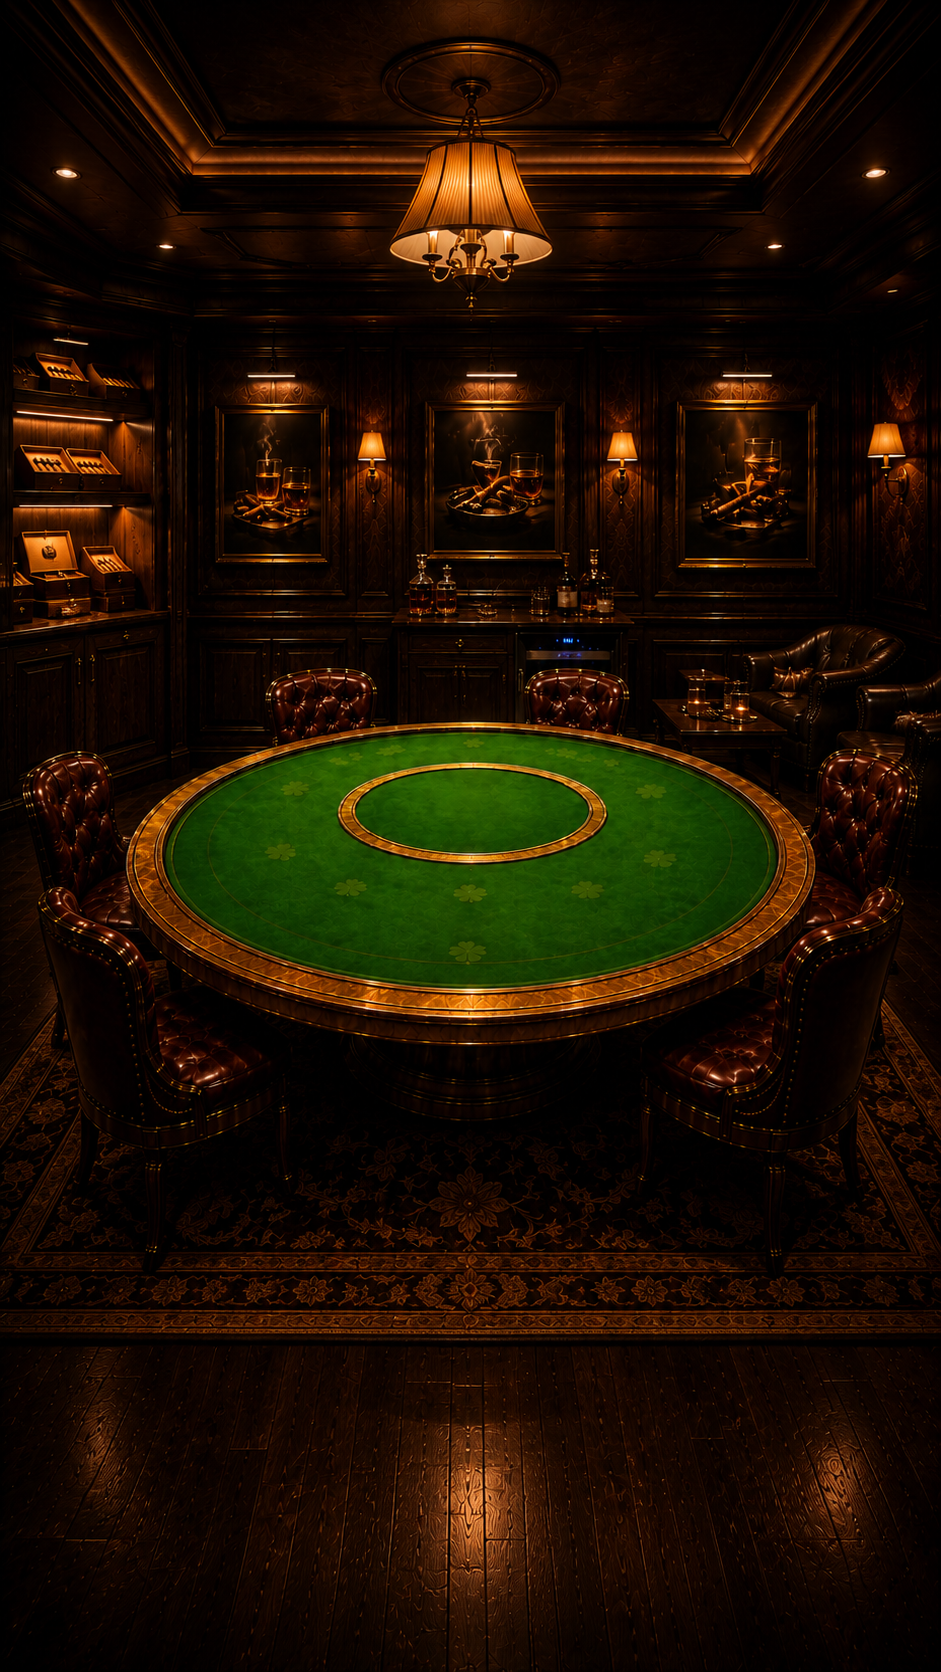
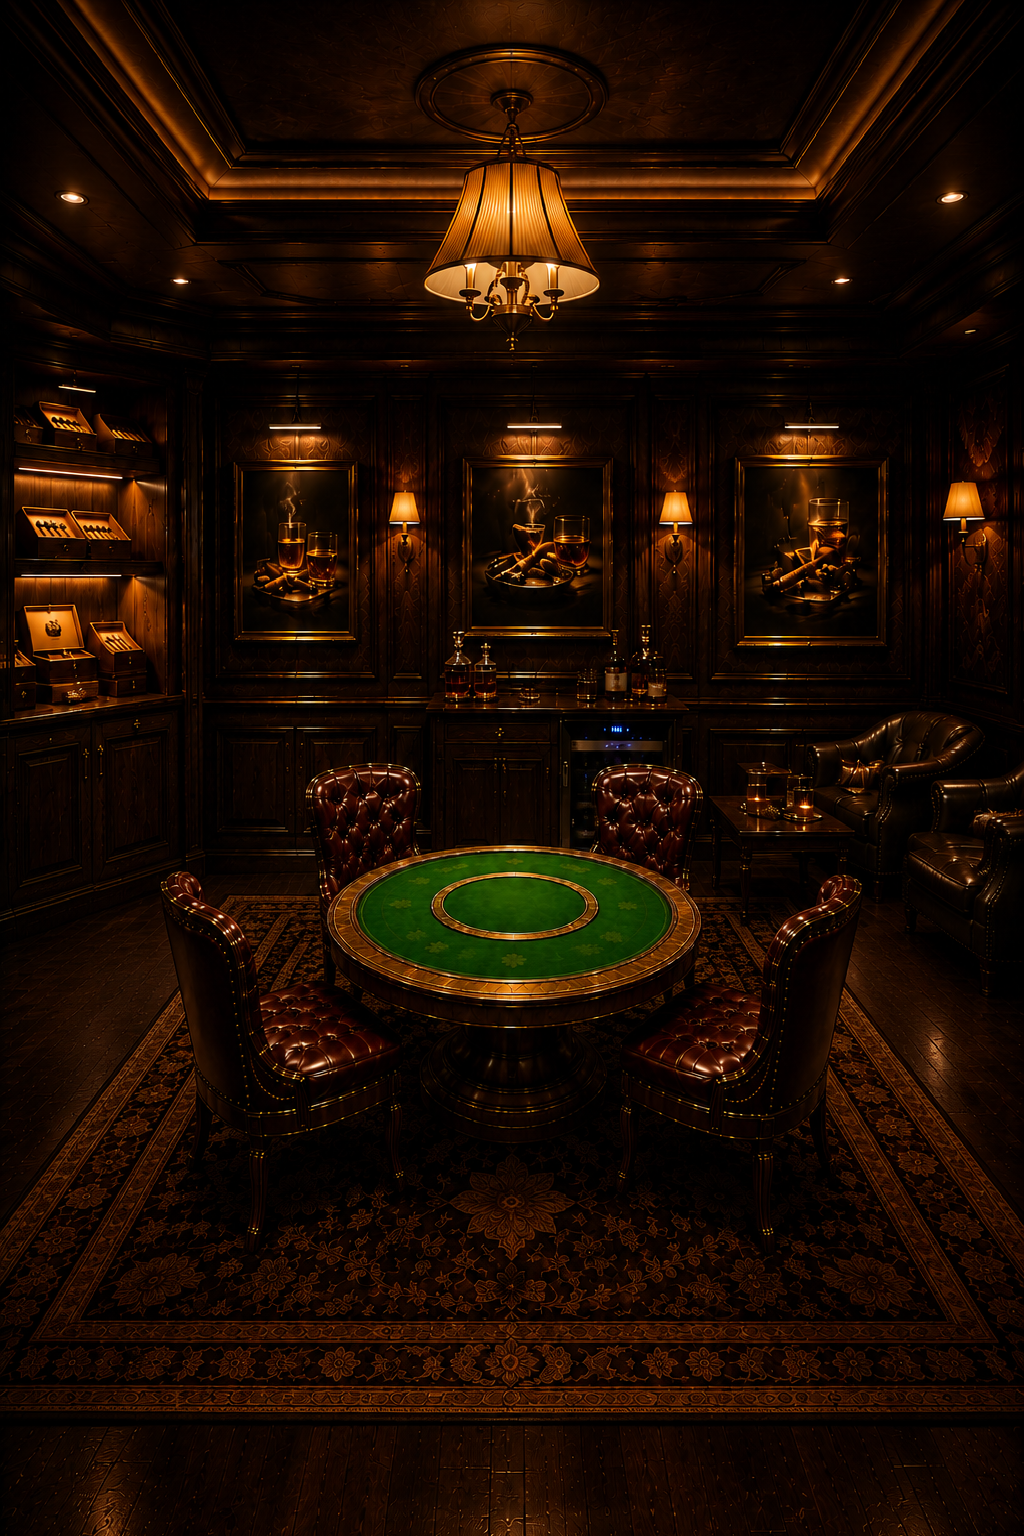
updated

diff --git a/src/styles/gameplay/gameplay.portrait.css b/src/styles/gameplay/gameplay.portrait.css
@@ -971,7 +971,7 @@ html[data-device="mobile"][data-orientation="portrait"] .app-shell--gameplay {
   --pg-cup-filter: drop-shadow(0 9px 11px rgba(0, 0, 0, .34));
 
   --pg-cup-2-width: 46%;
-  --pg-cup-2-1-left: 4%;
+  --pg-cup-2-1-left: 5%;
   --pg-cup-2-1-top: 34%;
   --pg-cup-2-1-transform: none;
   --pg-cup-2-2-left: 50%;
@@ -3567,16 +3567,16 @@ html[data-device="mobile"][data-orientation="portrait"] .app-shell--gameplay .ga
   --pg-current-bid-header-width: 200px;
   --pg-current-bid-header-font: 19px;
 
-  --pg-current-bid-main-left: 31px;
+  --pg-current-bid-main-left: 50px;
   --pg-current-bid-main-top: 62px;
   --pg-current-bid-main-width: 184px;
   --pg-current-bid-main-height: 58px;
   --pg-current-bid-main-gap: 12px;
 
-  --pg-current-bid-total-font: 40px;
-  --pg-current-bid-die-size: 45px;
+  --pg-current-bid-total-font: 70px;
+  --pg-current-bid-die-size: 65px;
 
-  --pg-current-bid-joker-left: 120px;
+  --pg-current-bid-joker-left: 150px;
   --pg-current-bid-joker-top: 139px;
   --pg-current-bid-joker-width: 124px;
   --pg-current-bid-joker-height: 38px;
@@ -3594,10 +3594,10 @@ html[data-device="mobile"][data-orientation="portrait"] .app-shell--gameplay .ga
 
   /* 2 PLAYERS */
   --pg-cup-2-width: 13%;
-  --pg-cup-2-1-left: 45%;
+  --pg-cup-2-1-left: 40%;
   --pg-cup-2-1-top: 40%;
   --pg-cup-2-1-transform: none;
-  --pg-cup-2-2-left: 45%;
+  --pg-cup-2-2-left: 40%;
   --pg-cup-2-2-top: 60%;
   --pg-cup-2-2-transform: none;
 

diff --git a/src/styles/gameplay/gameplay.controls.css b/src/styles/gameplay/gameplay.controls.css
@@ -32,14 +32,14 @@ html[data-device='mobile'][data-orientation='portrait'] .app-shell--gameplay .ga
   /* Current Bid */
   --pg-current-bid-left: 250px;
   --pg-current-bid-top: 200px;
-  --pg-current-bid-width: 245px;
-  --pg-current-bid-height: 180px;
+  --pg-current-bid-width: 306.25px;
+  --pg-current-bid-height: 225px;
 
   /* Cups */
-  --pg-cups-left: 140px;
-  --pg-cups-top: 446px;
-  --pg-cups-width: 440px;
-  --pg-cups-height: 255px;
+  --pg-cups-left: 160px;
+  --pg-cups-top: 576px;
+  --pg-cups-width: 420px;
+  --pg-cups-height: 225px;
 }
 
 /* =========================================================
